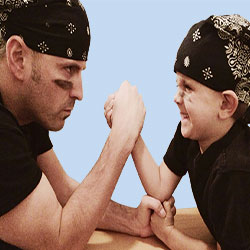
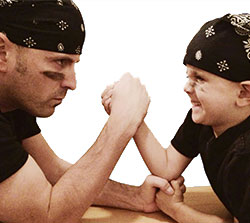
Squared off images

diff --git a/index.html b/index.html
@@ -96,14 +96,14 @@
 
     <div id="thumb-4" class="large-3 small-6 columns">
       <a href="#" data-reveal-id="compromise">
-      <img src="img/nick.jpg" />
+      <img src="img/nick_icon.jpg" />
       <h6>Compromise</h6>
       </a>
     </div>
 
     <div id="thumb-5" class="large-3 small-6 columns">
       <a href="#" data-reveal-id="collaboration">
-      <img src="img/phillip.jpg" />
+      <img src="img/phillip_icon.jpg" />
       <h6>Collaboration</h6>
       </a>
     </div>
